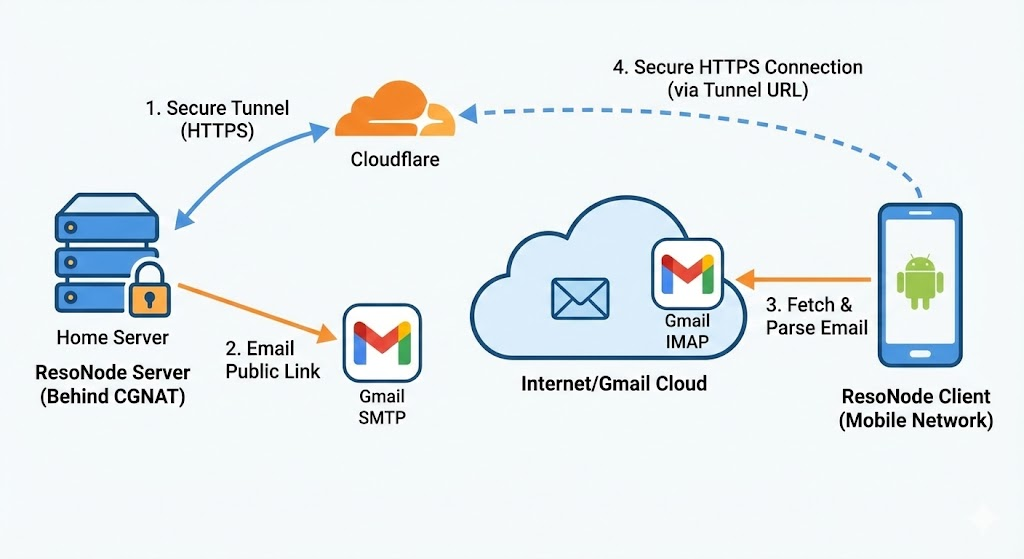
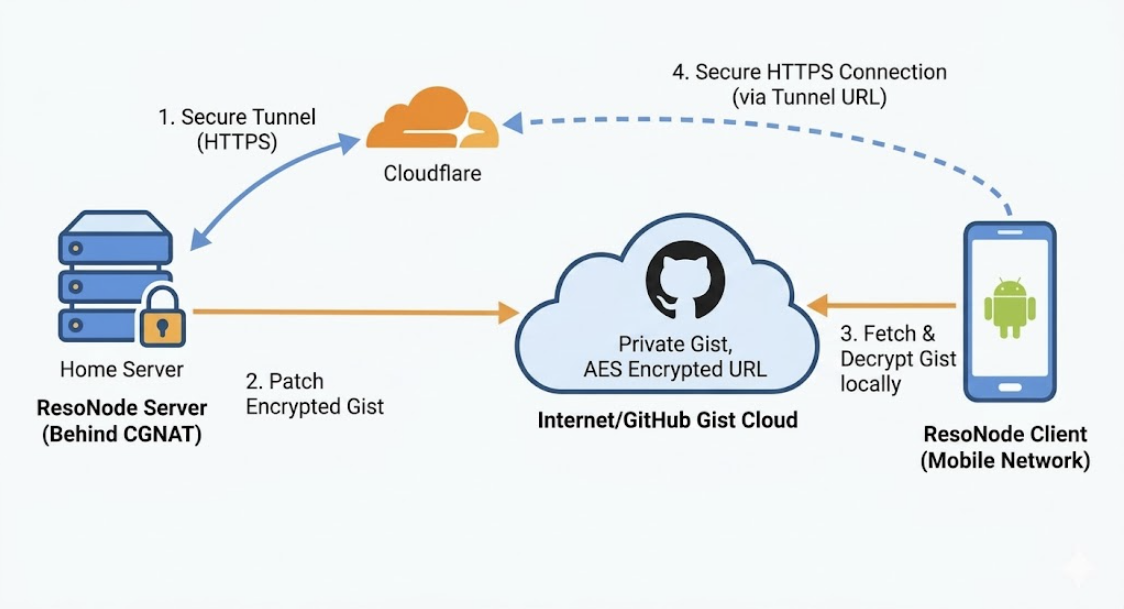
Readme update

diff --git a/README.md b/README.md
@@ -20,31 +20,31 @@ ResoNode is a self-hosted music streaming platform designed to provide full cont
 Unlike other media servers like Plex or Jellyfin, ResoNode is built with a specific focus on resilience and connection simplicity for users with dynamic IPs.
 
 * **Data Sovereignty:** You host the MP3 files. The library is not subject to licensing agreements or removals.
-* **Connection Mechanism:** Removes the need for static IPs, dynamic DNS (DDNS), or complex VPN configurations (like WireGuard/Tailscale). It uses a discovery system based on Cloudflare Tunnels and Gmail to locate the server automatically.
+* **Connection Mechanism:** Removes the need for static IPs, dynamic DNS (DDNS), or complex VPN configurations (like WireGuard/Tailscale). It uses a secure discovery system based on **Cloudflare Tunnels and AES-Encrypted GitHub Gists** to locate the server automatically.
 * **Hybrid Playback:**
-    * **Streaming:** Plays directly from the server when an internet connection is available.
+    * **Streaming:** Plays directly from the server when an internet connection is available, using chunked streaming for fast loading.
     * **Offline Mode:** Downloads playlists to local storage. The app manages the local database transparently, switching modes automatically when network connectivity is lost.
-* **The Vault:** An automated file system that organizes uploads by Artist, Album, and Track.
-* **Legacy Support:** Designed with a **lightweight interface** and a custom TLS 1.2 implementation, ensuring smooth performance even on older hardware (Android 4.4+) used as dedicated media players.
+* **The Vault:** An automated file system that organizes uploads by Artist, Album, and Track based on metadata.
+* **Legacy Support:** Designed with a lightweight interface and a custom TLS 1.2 implementation, ensuring smooth performance even on older hardware (Android 4.4+) used as dedicated media players.
 
 ## System Architecture
 
-The project consists of two main components:
+The project is structured into three main directories:
 
-1.  **Server (Python/FastAPI):** Runs on a host machine (Linux/Windows/Mac). Manages the file system, user authentication, and streaming logic.
-2.  **Client (Android):** A native application optimized for low-latency streaming and offline synchronization.
+1.  **`/server` (Python/FastAPI):** Runs on the host machine. Manages the file system, user authentication, URL updating, and streaming logic.
+2.  **`/user` (Python Tools):** Helper scripts (`deploy.py` and `music_uploader.py`) to manage your server remotely.
+3.  **`/app` (Android Client):** A native application optimized for low-latency streaming and offline synchronization.
 
 ### The Connection Logic
 
-![ResoNode Network Architecture](assets/architecture.png)
+*(Note: The old `architecture.png` showing Gmail routing is now deprecated).*
 
 To bypass carrier-grade NAT (CGNAT) and dynamic IPs without user intervention:
 
-1.  **Tunneling:** Upon startup, `server_launcher.py` initiates a secure Cloudflare Tunnel (`cloudflared`).
-2.  **Assignment:** Cloudflare assigns a temporary, random public URL (e.g., `https://random-id.trycloudflare.com`).
-3.  **Broadcasting:** The server detects this URL and emails it to a dedicated Gmail account via SMTP.
-4.  **Discovery:** When the Android app launches, it checks the Gmail inbox via IMAP, retrieves the latest email from the server, and parses the new URL.
-5.  **Handshake:** The app updates its configuration and establishes the connection.
+1.  **Tunneling:** A secure Cloudflare Tunnel (`cloudflared`) assigns a temporary, random public URL to the server.
+2.  **Broadcasting:** Upon startup, the backend (`api_musica.py`) triggers a background script (`update_url.py`) that encrypts the new URL using AES-256 and patches a private GitHub Gist.
+3.  **Discovery:** When the Android app launches (or loses connection), it fetches the GitHub Gist, decrypts the payload locally using the shared secret key, and updates its target URL.
+4.  **Handshake:** The app establishes a direct, secure connection to the server seamlessly.
 
 ## ResoNode Wrapped
 
@@ -53,49 +53,46 @@ To bypass carrier-grade NAT (CGNAT) and dynamic IPs without user intervention:
 <img src="./assets/wrapped_ranking.png" width="220" alt="Wrapped Ranking">
 </p>
 
-An integrated, privacy-focused analytics engine designed to track listening habits without third-party data mining. Unlike standard streaming services, this feature is built with a **local-first** philosophy.
+An integrated, privacy-focused analytics engine designed to track listening habits without third-party data mining. Built with a **local-first** philosophy.
 
-* **Offline-Persistent Tracking:** Playback history (duration and track counts) is recorded into an internal SQLite database. This ensures that statistics are captured even when using **Offline Mode** in areas with no connectivity.
-* **Smart Synchronization:** The app's `NetworkReceiver` detects when internet connectivity is restored and automatically pushes unsynced local logs to the server. This merges data from multiple devices into a single user profile.
-* **Privacy & Community:** The feature is strictly opt-in. Users have full control over their data visibility via Settings:
-    * **OFF (Default):** The app simply does not record any data.
+* **Offline-Persistent Tracking:** Playback history (duration and track counts) is recorded into an internal SQLite database.
+* **Smart Synchronization:** The app detects when internet connectivity is restored and automatically pushes unsynced local logs to the server. 
+* **Privacy & Community:** Strictly opt-in via Settings:
+    * **OFF (Default):** The app does not record any data.
     * **Private Mode:** Statistics are strictly for personal viewing.
-    * **Public Mode:** Users can opt-in to a server-wide leaderboard to compare listening times with other members of the instance.
-    
-<br clear="right"/>
+    * **Public Mode:** Opt-in to a server-wide leaderboard to compare listening times with other instance members.
 
 ## Server Installation
 
 ### Prerequisites
 * Python 3.8 or higher.
-* **Cloudflared:** The Cloudflare tunnel daemon must be installed and available in the system PATH.
-* **Gmail Account:** A dedicated account is recommended for the handshake process. App Passwords must be enabled.
+* **Cloudflared:** The Cloudflare tunnel daemon must be installed and running.
+* **GitHub Account:** A Personal Access Token (Classic) with `gist` permissions to update the dynamic URL.
 
 ### Setup Steps
 
 1.  **Install Dependencies:**
     ```bash
-    pip install fastapi uvicorn python-multipart mutagen requests
+    pip install fastapi uvicorn python-multipart mutagen requests cryptography
     ```
 
 2.  **Configuration:**
     * Navigate to the `server/` directory.
-    * Locate `server_config_example.py`.
-    * Rename it to `server_config.py` (this file is git-ignored to prevent credential leakage).
+    * Rename `server_config_template.py` to `server_config.py` (this file is git-ignored to prevent credential leakage).
     * Edit the file with your credentials:
         ```python
-        API_SECRET_KEY = "YOUR_SECURE_KEY" # Must match the key in the Android App
-        GMAIL_USER = "your_email@gmail.com"
-        GMAIL_PASS = "your_app_password"
-        DESTINATION_EMAIL = "destination_email@gmail.com"
-        PORT = 8000
+        API_SECRET_KEY = "YOUR_SECURE_KEY" # Used for app access and URL AES encryption
+        ADMIN_SECRET_KEY = "YOUR_ADMIN_KEY" # Used for remote APK/Music uploads
+        GITHUB_TOKEN = "ghp_your_personal_access_token"
+        GIST_ID = "your_gist_id"
+        PORT = 5000
         ```
 
 3.  **Run the Server:**
-    Execute the launcher script from within the server directory. This will start the API, initialize the tunnel, and send the connection email.
+    Execute the main API script. It will automatically start the background URL updater.
     ```bash
     cd server
-    python server_launcher.py
+    python api_musica.py
     ```
 
 ## Client Installation (Android)
@@ -103,66 +100,38 @@ An integrated, privacy-focused analytics engine designed to track listening habi
 1.  Open the project in **Android Studio**.
 2.  **Security Configuration:**
     * Navigate to `app/src/main/java/com/example/resonode/`.
-    * Modify the file named `Config.java` using it as a template.
-    * Fill in the required fields:
-        * `API_SECRET_KEY`: Must match the server key exactly.
-        * `GMAIL_EMAIL` / `PASSWORD`: Credentials used to read the connection email.
-3.  **Build:** compile the APK and install it on the target device.
+    * Rename or use `Config.java` to set up your environment.
+    * Match the `API_SECRET_KEY` exactly with your server.
+3.  **Build:** Compile the APK and install it on the target device.
 
-## Uploading Music
+## Remote Management Tools (`/user`)
 
-ResoNode includes a user-friendly helper script to upload your local music library to your server without technical hassles.
+ResoNode includes user-friendly helper scripts in the `/user` folder to manage your server without SSH access.
 
-### Automated Method (Recommended)
+### Uploading Music (`music_uploader.py`)
 
-1.  Ensure your server is running.
-2.  Run the uploader script from the project root:
+1.  Navigate to the `user/` directory.
+2.  Run the uploader script:
     ```bash
     python music_uploader.py
     ```
 3.  **Follow the interactive wizard:**
-    * **Select Source:** Drag and drop your local music folder containing `.mp3` files into the terminal window.
-    * **Select Environment:** Choose whether you are at home (Local IP) or away (Cloudflare Tunnel).
-    * **Select Destination:** (Optional) Choose a specific playlist folder on the server to link the music to.
+    * Drag and drop your local music folder containing `.mp3` files.
+    * Choose whether you are at home (Local IP) or away (fetches URL via Gist).
+    * Select a target playlist or send it directly to the Vault.
 
-The script automatically filters for MP3s, creates a ZIP package, and handles the upload process for you.
+The script filters for MP3s, zips them, and uses your `ADMIN_SECRET_KEY` to securely push them to the server for automatic ID3 extraction and sorting.
 
-### Manual Method (Advanced)
+### OTA Updates (`deploy.py`)
 
-If you prefer to build your own tools or integrations, the server exposes the following endpoint:
+ResoNode includes a built-in Over-The-Air update mechanism. You can deploy new code to your server remotely, and client apps will prompt users to download the update automatically.
 
-* **URL:** `/upload_zip`
-* **Method:** `POST`
-* **Headers:** `x-secret-key: [YOUR_API_SECRET_KEY]`
-* **Body (Multipart/Form-Data):**
-    * `file`: A `.zip` file containing valid MP3s.
-    * `target_playlist`: (Optional) Name of a subfolder/playlist.
-
-## OTA Updates (Auto-Updater)
-
-ResoNode includes a built-in Over-The-Air update mechanism. You don't need to manually copy APKs to your phone.
-
-### How it works
-1.  **Check:** Every time the App opens, it queries `/update/check`.
-2.  **Compare:** It compares the server's `version.json` with the installed app version.
-3.  **Install:** If a newer version is found, it downloads and prompts the user to install it.
-
-### Building a new version
-If you ever want to experiment and modify this app, feel free to do it! A helper script `deploy_tool.py` is included to automate this process.
-
-1.  **Build:** Generate a Signed APK in Android Studio (`Build > Generate Signed Bundle / APK > APK > Debug/Release`).
-2.  **Run:** Execute the tool from the project root:
+1.  **Build:** Generate a Signed/Debug APK in Android Studio.
+2.  Navigate to the `user/` directory and run:
     ```bash
-    python deploy_tool.py
+    python deploy.py
     ```
 3.  **Follow the wizard:**
-    * It detects the latest APK automatically.
-    * Enter the new Version Code (must be higher than current).
-    * Enter the Changelog.
-    * **Select Mode:**
-        * `[1] SSH/SCP`: For local network deployment (requires SSH access).
-        * `[2] HTTP Upload`: Deploys via the Cloudflare Tunnel. Useful if you are coding away from home.
-
-## Disclaimer
-
-This project is a proof of concept regarding media streaming and network traversal. Users are responsible for ensuring they have the legal rights to the media files hosted, streamed, and downloaded on their private servers.
+    * It detects the latest compiled APK from the `app/build/` folder.
+    * Enter the new Version Code and a Changelog.
+    * Deploy via Local Network (SSH/SCP) or Remote Network (HTTP POST via Cloudflare using your `ADMIN_SECRET_KEY`).
